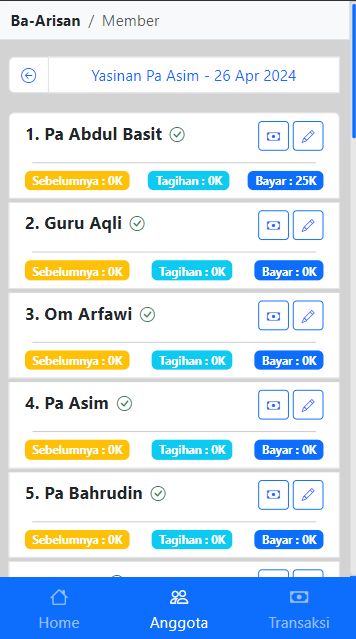
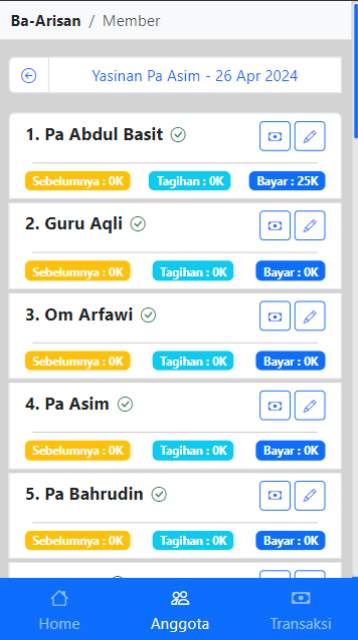
Feat : Install PWA

diff --git a/vite.config.ts b/vite.config.ts
@@ -29,7 +29,7 @@ export default defineConfig({
           },
           {
             src: 'img/screenshoots/sc2.png',
-            sizes: '356x639',
+            sizes: '358x640',
             type: 'image/png',
             form_factor: 'narrow',
             label: 'Member Page'
